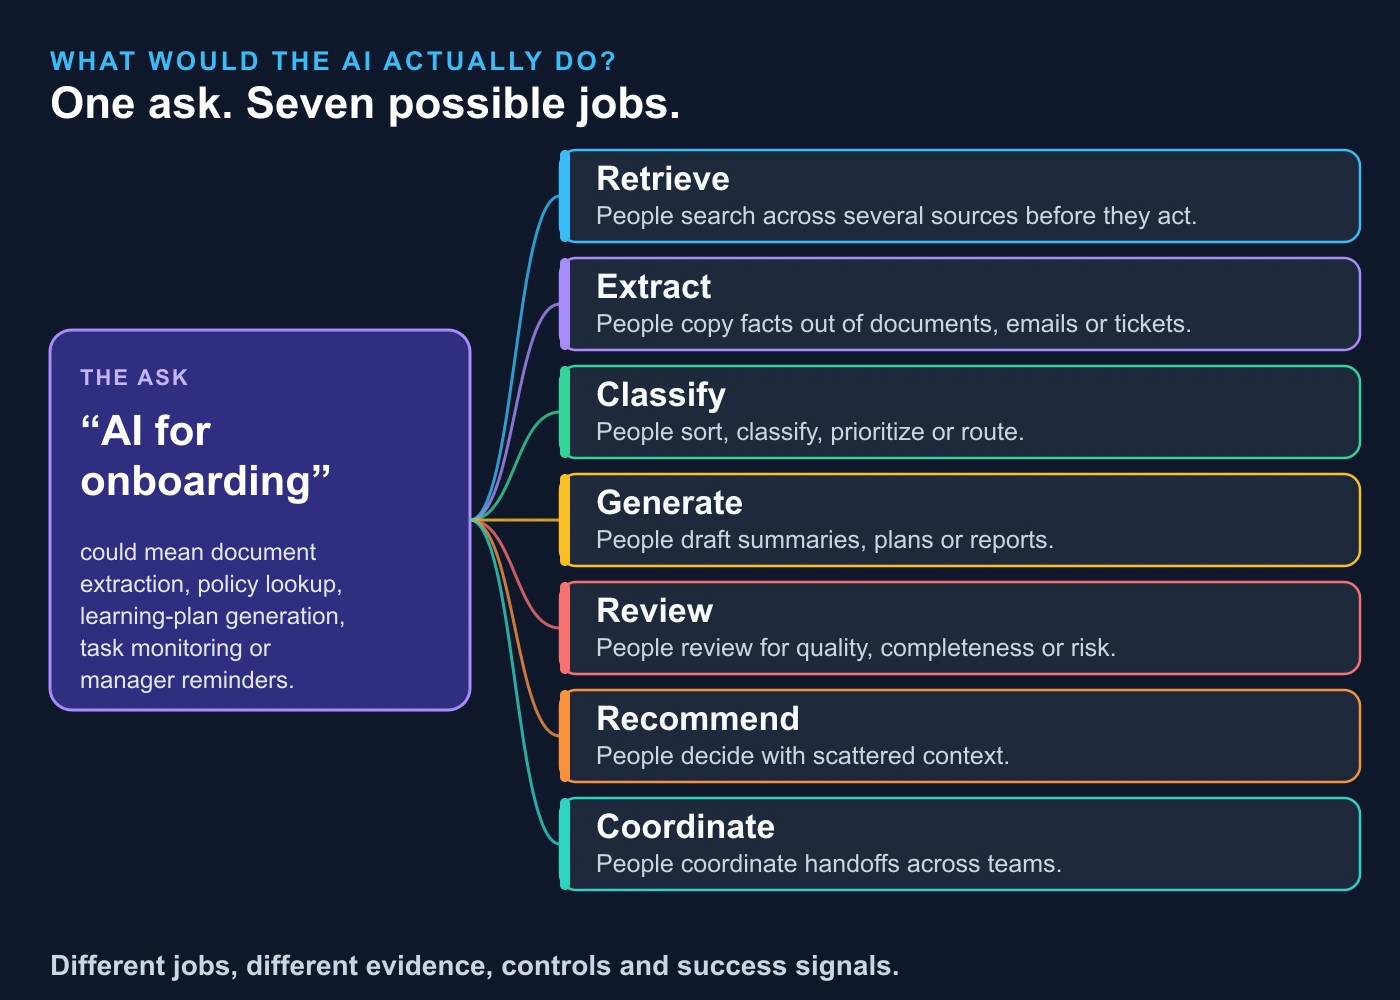
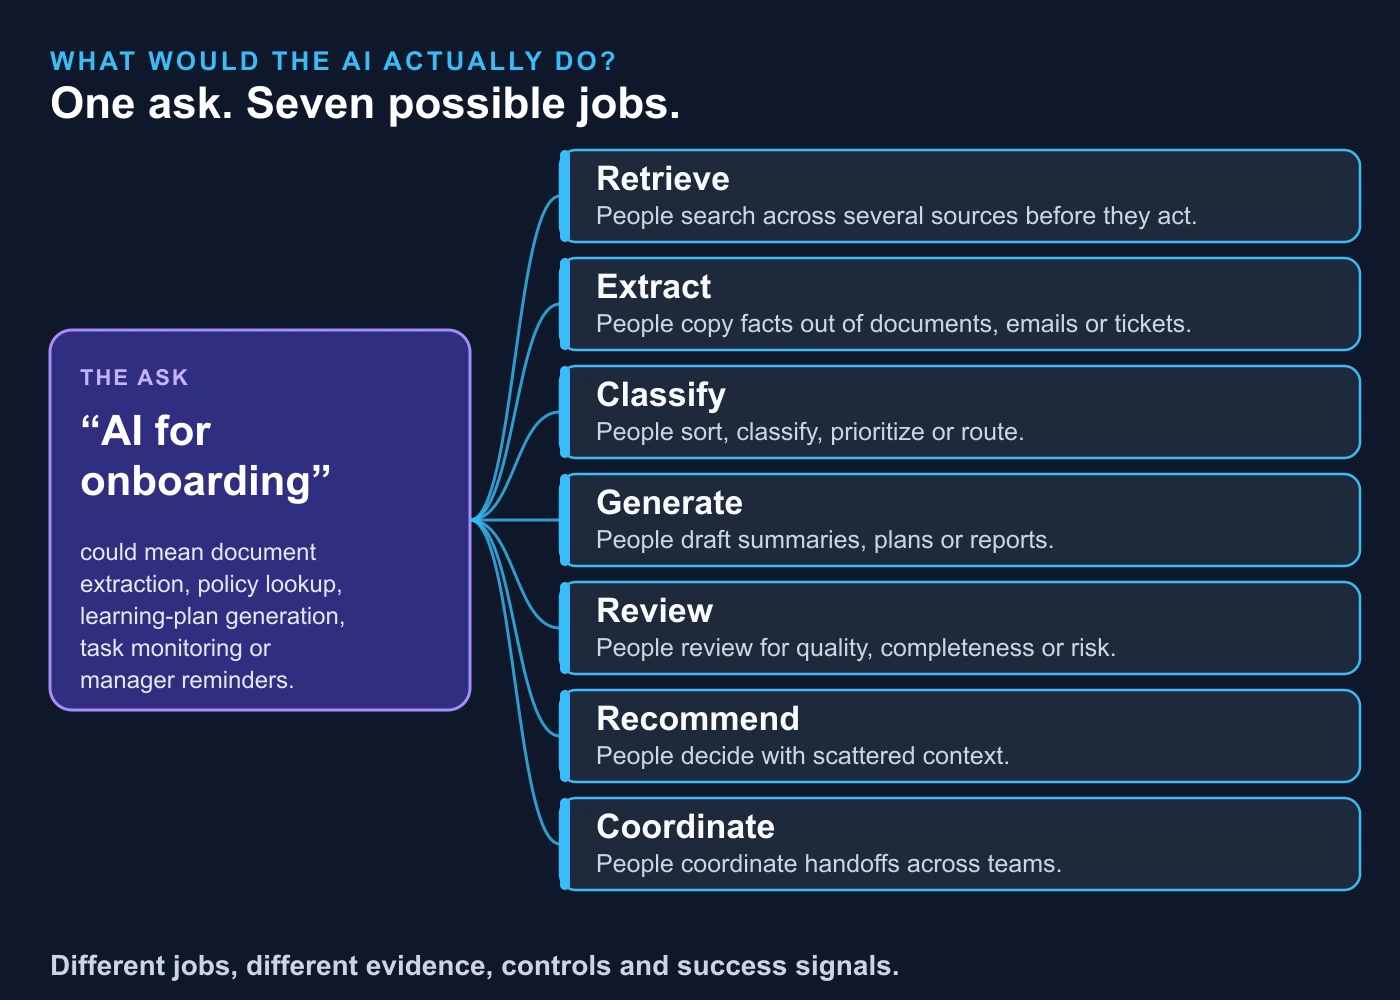
AI pre-sales post: filled-in handoff note, risk-vs-readiness chart, single-accent diagrams; drop routing map and value chain

Changed region(s): [[0.3379, 0.248, 0.9829, 0.899]]

diff --git a/site/blog/2026-10-27-ai-presales-playbook-from-interest-to-next-step.html b/site/blog/2026-10-27-ai-presales-playbook-from-interest-to-next-step.html
@@ -1359,12 +1359,7 @@
 
         <p>Then separate what you know from what you assume. <strong>Known</strong> means the customer told you or showed you. <strong>Assumed</strong> means it could be true, but nobody has proved it. Pair every assumption with the next validation step: how you will find out.</p>
 
-        <p>A value story is built link by link, so test each link before the next:</p>
-
-        <figure style="margin: 2rem 0;">
-            <a href="../images/blog/2026-10-27-value-story-chain.webp" target="_blank" rel="noopener" aria-label="Open the value story chain full size"><img src="../images/blog/2026-10-27-value-story-chain.webp" width="1500" height="640" loading="lazy" style="width: 100%; height: auto; border-radius: 12px; border: 1px solid rgba(148, 163, 184, 0.25);" alt="Value story built link by link: 1 workflow problem, what hurts today and who feels it; 2 AI-enabled improvement, what could AI change in that step; 3 operational outcome, what will measurably be different; 4 business priority, why that matters to the sponsor now; 5 validation evidence, what data would prove or disprove it."></a>
-            <figcaption class="caption" style="margin-top: 0.75rem; text-align: center;">Build the value story link by link, from the workflow to the evidence. Tap to enlarge.</figcaption>
-        </figure>
+        
 
         <div style="background: rgba(56, 189, 248, 0.06); border: 1px solid rgba(56, 189, 248, 0.25); border-left: 4px solid #38bdf8; border-radius: 12px; padding: 1.1rem 1.4rem; margin: 2rem 0;">
             <p style="margin: 0; color: #e2e8f0;"><strong style="color: #7dd3fc;">In the insurance case.</strong> The hypothesis is modest: incomplete files cause much of the delay, so flagging gaps early could cut rework. It is a bet to test, and nobody has timed a complete file yet.</p>
@@ -1461,10 +1456,7 @@
             <li><strong>Then: what should happen next?</strong> The progression step: more discovery, validation, technical handoff or migration discovery.</li>
         </ol>
 
-        <figure style="margin: 2rem 0;">
-            <a href="../images/blog/2026-10-27-routing-map.webp" target="_blank" rel="noopener" aria-label="Open the routing map full size"><img src="../images/blog/2026-10-27-routing-map.webp" width="1400" height="1000" loading="lazy" style="width: 100%; height: auto; border-radius: 12px; border: 1px solid rgba(148, 163, 184, 0.25);" alt="Routing map with four layers. Question 1, surface: where will the person or workflow operate? Options include collaborative chat, a delegated work tool, a coding tool or an app built with the API. Question 2, capability: what must the system do? Retrieval, extraction, classification, tool use, approvals or multi-step action. Question 3, deployment and control: where and how will it run and be controlled? Identity, permissions, approvals, retention, logging and human review. Then progression: what should happen next? More discovery, validation, technical handoff or migration discovery."></a>
-            <figcaption class="caption" style="margin-top: 0.75rem; text-align: center;">The routing map: three questions, then a fourth. Tap to enlarge.</figcaption>
-        </figure>
+        
 
         <p>Two rules help. &ldquo;Agentic&rdquo; describes a capability, not a separate product. Name each component instead of saying &ldquo;hybrid&rdquo;.</p>
 
@@ -1515,11 +1507,11 @@
 
         <p>Do not use handoff to escape ambiguity. A good handoff note never says &ldquo;Customer needs API.&rdquo; It says what is known, what is assumed, what needs validation, who owns the next step and which decision that step enables.</p>
 
-        <p>Someone outside the original conversation should be able to pick it up without restarting discovery. Seven fields are enough:</p>
+        <p>Someone outside the original conversation should be able to pick it up without restarting discovery. Here is one, filled in for the insurance case:</p>
 
         <figure style="margin: 2rem 0;">
-            <a href="../images/blog/2026-10-27-handoff-note-one-screen.webp" target="_blank" rel="noopener" aria-label="Open the handoff note full size"><img src="../images/blog/2026-10-27-handoff-note-one-screen.webp" width="1400" height="1000" loading="lazy" style="width: 100%; height: auto; border-radius: 12px; border: 1px solid rgba(148, 163, 184, 0.25);" alt="A handoff note in seven fields: 1 workflow and use case; 2 owners; 3 evidence so far; 4 value hypothesis; 5 route and alternatives; 6 risks and unknowns; 7 next action, including who owns it and which decision it unlocks."></a>
-            <figcaption class="caption" style="margin-top: 0.75rem; text-align: center;">A handoff note on one screen: seven fields. Tap to enlarge.</figcaption>
+            <a href="../images/blog/2026-10-27-handoff-note-filled.webp" target="_blank" rel="noopener" aria-label="Open the filled-in handoff note full size"><img src="../images/blog/2026-10-27-handoff-note-filled.webp" width="1400" height="1238" loading="lazy" style="width: 100%; height: auto; border-radius: 12px; border: 1px solid rgba(148, 163, 184, 0.25);" alt="Handoff note for the insurance document review, filled in from the running example. Use case: at intake, AI flags missing documents and a person confirms and requests the rest (known). Owners: workflow owner and exceptions owner to be named (unknown). Evidence so far: the business asked for five things at once and missing documents is the lowest risk (known). Value hypothesis: incomplete files cause much of the delay, so flagging gaps early could cut rework (assumed). Route: Azure AI landing zone first, rules-only checker tested before any model (assumed). Risks and unknowns: time for a complete file and accuracy on the customer's documents are not measured (unknown). Next action: validation session, starting by timing a complete file today (known)."></a>
+            <figcaption class="caption" style="margin-top: 0.75rem; text-align: center;">A handoff note filled in for the insurance case. Green is known, amber is assumed, red is unknown. Tap to enlarge.</figcaption>
         </figure>
 
         <div style="background: rgba(56, 189, 248, 0.06); border: 1px solid rgba(56, 189, 248, 0.25); border-left: 4px solid #38bdf8; border-radius: 12px; padding: 1.1rem 1.4rem; margin: 2rem 0;">
@@ -1564,9 +1556,9 @@
 
         <p>That&rsquo;s five projects, not one. I split them by risk:</p>
 
-        <figure style="margin: 2rem auto; max-width: 560px;">
-            <a href="../images/blog/2026-10-27-insurance-five-projects.webp" target="_blank" rel="noopener" aria-label="Open the five-projects graphic full size"><img src="../images/blog/2026-10-27-insurance-five-projects.webp" width="1000" height="1000" loading="lazy" style="width: 100%; height: auto; border-radius: 12px; border: 1px solid rgba(148, 163, 184, 0.25);" alt="One ask, five projects, split by risk: 1 Missing documents (low risk, start here); 2 KYC gaps (medium, a person confirms); 3 Fraud signals (high risk, AI flags and a person decides); 4 Cross-sell (later, needs clean data first); 5 Profitability (later, needs today's numbers)."></a>
-            <figcaption class="caption" style="margin-top: 0.75rem; text-align: center;">One ask, five projects: split by risk, start with the lowest. Tap to enlarge.</figcaption>
+        <figure style="margin: 2rem 0;">
+            <a href="../images/blog/2026-10-27-five-projects-risk-map.webp" target="_blank" rel="noopener" aria-label="Open the five-projects risk chart full size"><img src="../images/blog/2026-10-27-five-projects-risk-map.webp" width="1300" height="900" loading="lazy" style="width: 100%; height: auto; border-radius: 12px; border: 1px solid rgba(148, 163, 184, 0.25);" alt="Chart of where the five projects sit today. Missing documents: low risk and easy to measure, the place to start. KYC gaps: medium risk, a person confirms. Fraud signals: high risk, AI flags and a person decides. Cross-sell and profitability are not placed and are for later: cross-sell needs clean data first, profitability needs today's numbers to compare against. Positions are a judgement, not measurements."></a>
+            <figcaption class="caption" style="margin-top: 0.75rem; text-align: center;">One ask, five projects: start where risk is low and the result is easy to measure. Tap to enlarge.</figcaption>
         </figure>
 
         <p>The <strong>first target</strong> is narrow: at intake, AI flags missing documents in each customer file, and people confirm and request the rest. The <strong>value hypothesis</strong> is modest: incomplete files cause much of the delay, so flagging gaps early could cut rework. It is a bet to test, not a claim.</p>
@@ -1918,7 +1910,7 @@
             <li><a href="https://learn.microsoft.com/en-us/azure/ai-services/document-intelligence/concept/accuracy-confidence?view=doc-intel-4.0.0" target="_blank" rel="noopener" style="color: #60a5fa;">Microsoft Learn: Interpret and improve model accuracy and confidence scores</a></li>
             <li><a href="https://github.com/microsoft/claims-processing-hack" target="_blank" rel="noopener" style="color: #60a5fa;">Claims Processing with Microsoft Foundry Agents Hackathon</a> (MIT license, archived by the owner on 9 August 2026)</li>
             <li><a href="https://github.com/michalmar/MicroHack-AI" target="_blank" rel="noopener" style="color: #60a5fa;">MicroHack-AI: multi-agent insurance claims processing on Azure</a></li>
-            <li>The handoff note, routing map and value-story diagrams are original drawings, adapted from the framework taught in the OpenAI Consultative Solutions Practitioner program.</li>
+            <li>The handoff-note structure is adapted from the framework taught in the OpenAI Consultative Solutions Practitioner program. All diagrams are my own drawings.</li>
             <li><a href="https://oaipartnernetwork.credential.net/b82b7e2b-3463-42ce-824e-d34cc947a53c" target="_blank" rel="noopener" style="color: #60a5fa;">OpenAI Consultative Solutions Practitioner credential</a></li>
         </ul>
 

diff --git a/tools/content/promo/2026-10-27-we-need-ai-is-a-clue-promo.md b/tools/content/promo/2026-10-27-we-need-ai-is-a-clue-promo.md
@@ -93,7 +93,7 @@ Free one-page template and the full playbook: https://portfolio.upendrakumar.com
 1. Cover: "We Need AI" Is a Clue, Not a Requirement
 2. The chain: workflow problem → use case → value hypothesis → solution route → next step
 3. The one-sentence use case template
-4. One ask, five projects (use `site/images/blog/2026-10-27-insurance-five-projects.webp`)
+4. One ask, five projects (use `site/images/blog/2026-10-27-five-projects-risk-map.webp`)
 5. Pick the first project: hits real pain, produces evidence fast, has visible support
 6. Saved time is not saved money (known / assumed / next validation step)
 7. Route in three questions: where, what, how it is controlled, then what next
